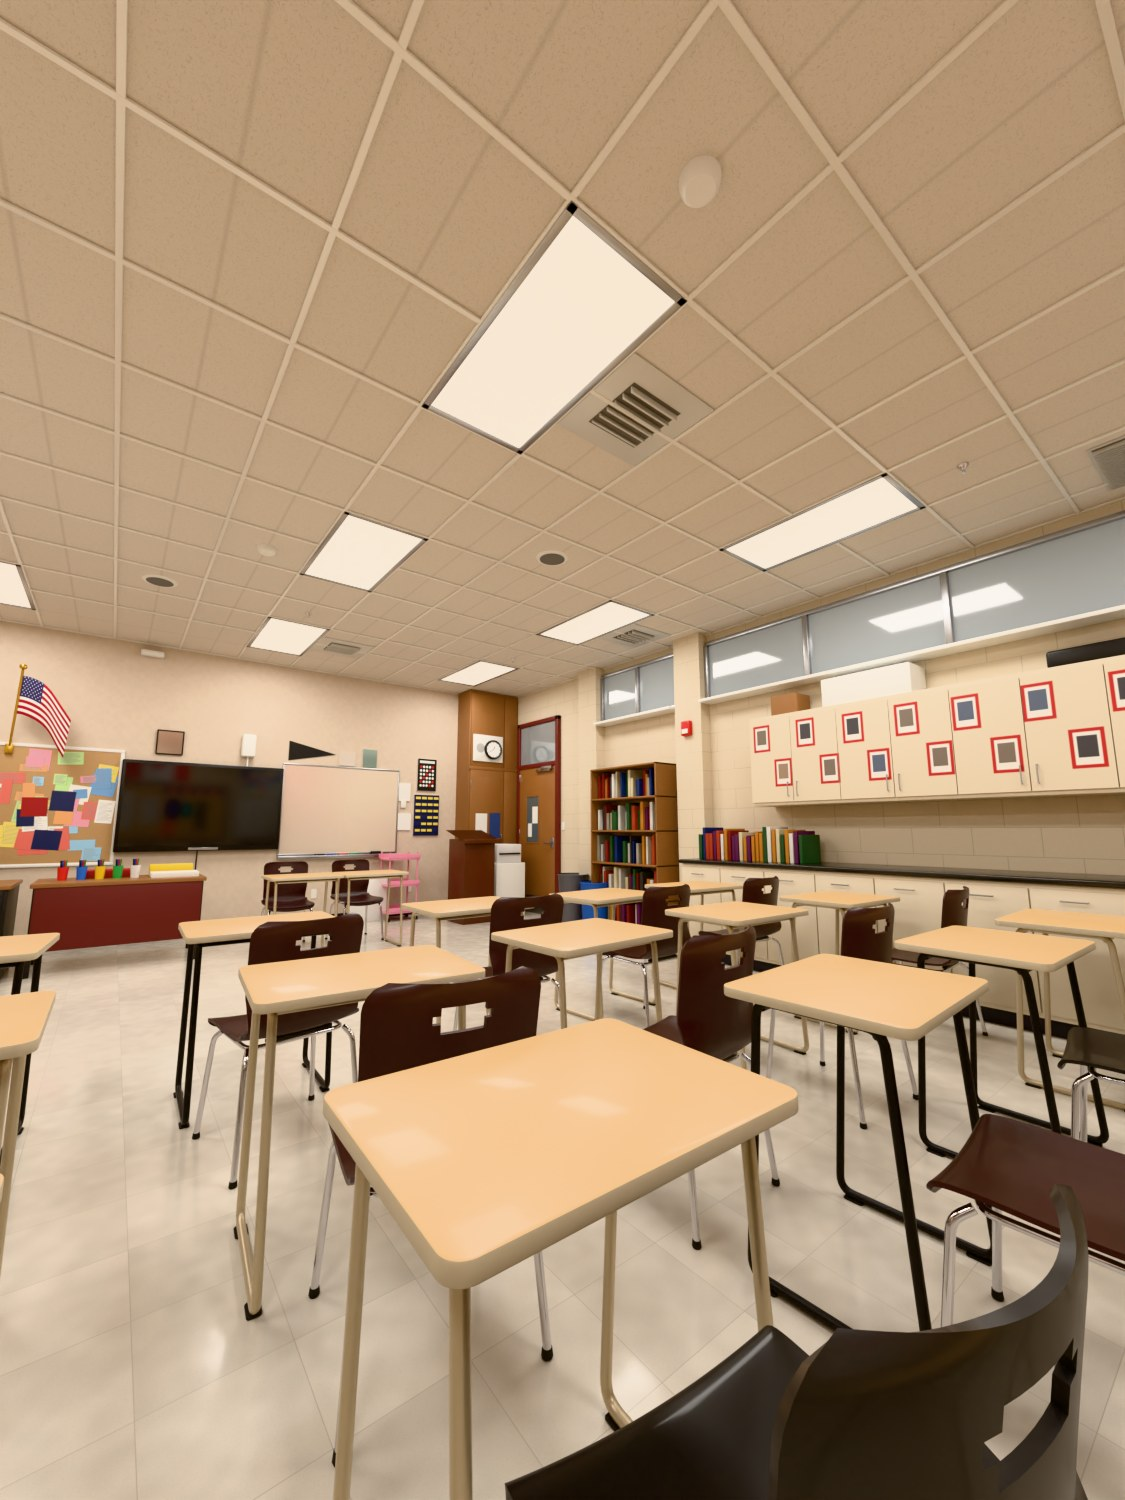
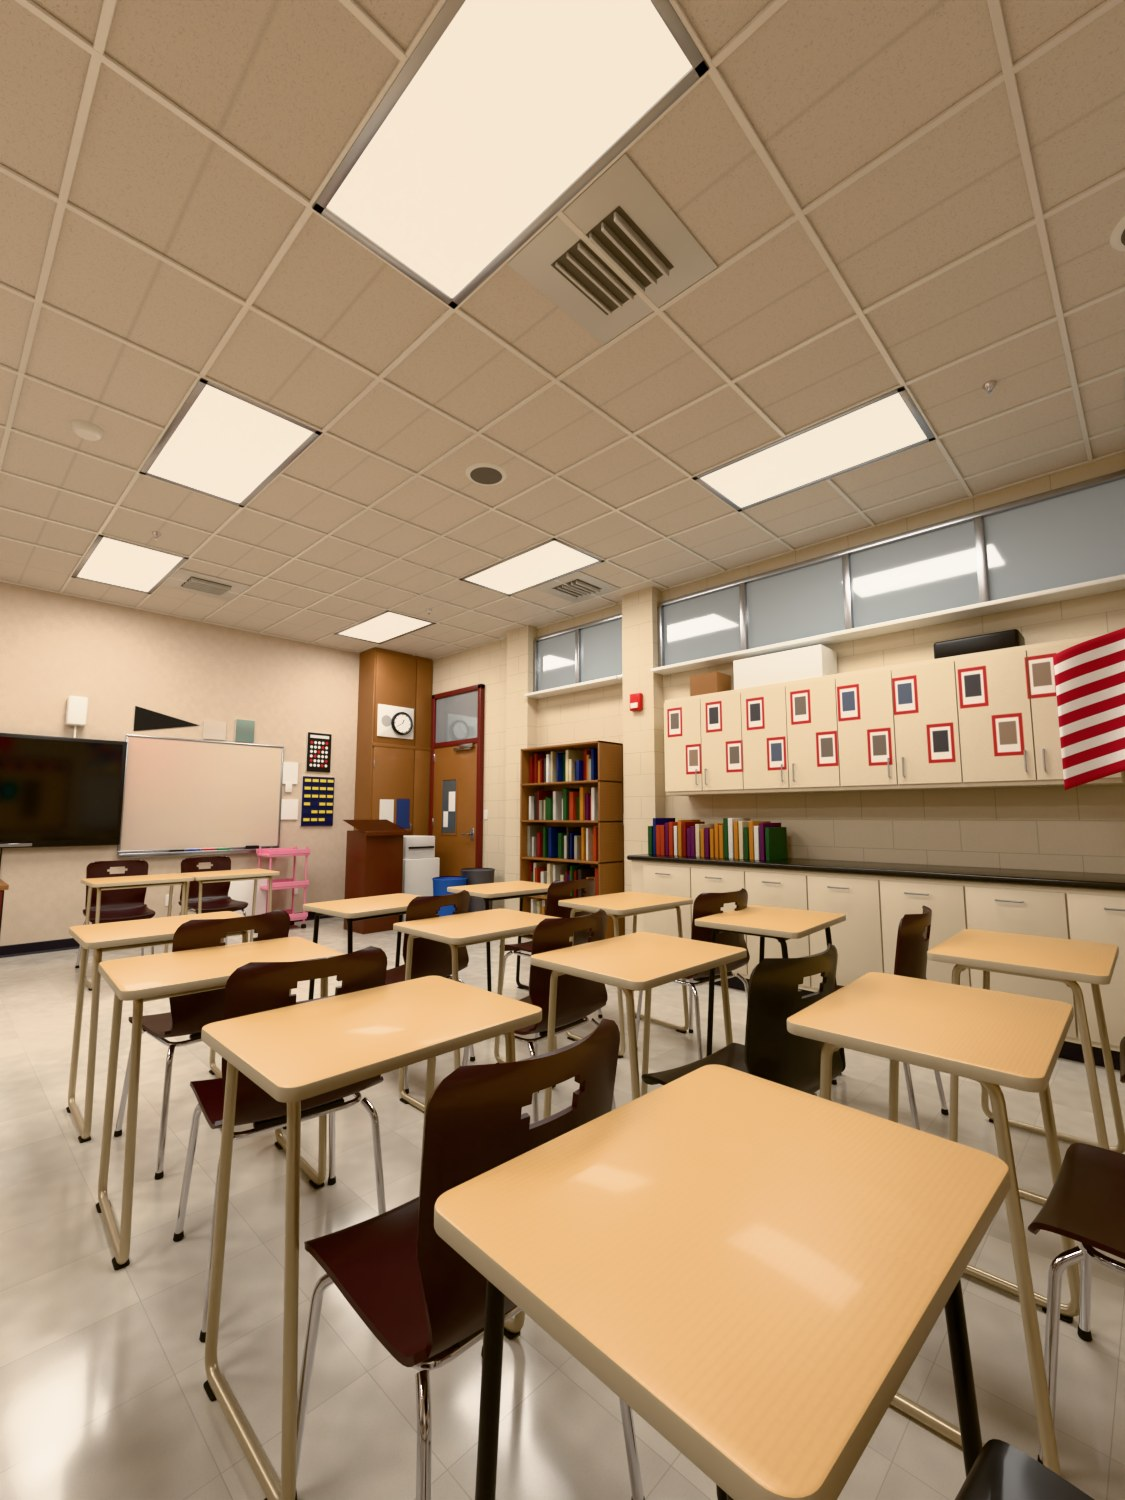
v4: R6 head-matched scale (6.5 studs/m), 28 ft depth, desks re-spaced from the photos

diff --git a/README.md b/README.md
@@ -6,13 +6,21 @@
 
 **Download:** [classroom_hd.zip](https://github.com/155xp/empty-classroom-model/releases/latest/download/classroom_hd.zip)
 
-About 325k triangles. The room is 7.32 x 9.75 m (24 x 32 ft) with a 3.35 m ceiling, re-measured from the photos: ceiling tiles were counted along the front wall, then the cameras and front-wall layout were solved together from two photos (about 3 px error). Desks, TV, whiteboard, oak cabinet, clock, door and the 3 x 4 grid of 2x4 lights sit where the photos put them. Posters and boards are generic stand-ins. `classroom_roblox.glb` is already in studs (1 m = 5 studs, so a seated R6 matches a seated student; room is about 36.6 x 48.8 x 16.8 studs) and split into 366 single-material parts under Roblox's 20k-triangle limit. Also includes the Blender source in meters.
+About 283k triangles. The room is 7.32 x 8.53 m (24 x 28 ft) with a 3.38 m ceiling, measured from the photos: ceiling tiles counted along the front wall, cameras and front-wall layout solved together from two photos (about 3 px error), and the desk grid (5 columns about 1.05 m apart, 4 rows about 0.95 m apart) located from where the students and their laptops sit. Posters and boards are generic stand-ins. `classroom_roblox.glb` is already in studs at **1 m = 6.5 studs**, so an R6 head is the size of the students' heads in the photos (room is about 47.6 x 55.4 x 22 studs). It is split into 329 single-material parts under Roblox's 20k-triangle limit. Also includes the Blender source in meters.
 
 ### Renders
 
-**Front wall from the back row (same angle as photo IMG_0074)**
+**Seated R6s at the desks, same angle as IMG_0079 (R6 heads match the students' heads)**
 
-![Front wall from the back row (same angle as photo IMG_0074)](renders/01_like_IMG0074.jpg)
+![Seated R6s at the desks, same angle as IMG_0079 (R6 heads match the students' heads)](renders/12_seated_R6s_like_IMG0079.jpg)
+
+**Seated R6s at the desks, same angle as IMG_0074**
+
+![Seated R6s at the desks, same angle as IMG_0074](renders/13_seated_R6s_like_IMG0074.jpg)
+
+**Front wall from the back row (same angle as IMG_0074)**
+
+![Front wall from the back row (same angle as IMG_0074)](renders/01_like_IMG0074.jpg)
 
 **Front wall, 1x lens from the back row (same angle as IMG_0079)**
 
@@ -42,9 +50,9 @@ About 325k triangles. The room is 7.32 x 9.75 m (24 x 32 ft) with a 3.35 m ceili
 
 ![Oak cabinet with the PA speaker and clock, door with transom](renders/08_clock_corner.jpg)
 
-**Desk and chair close-up (grey blocks are R6 dummies)**
+**Desk and chair close-up**
 
-![Desk and chair close-up (grey blocks are R6 dummies)](renders/09_desk_chair_detail.jpg)
+![Desk and chair close-up](renders/09_desk_chair_detail.jpg)
 
 **R6 scale check (grey blocks are R6 dummies)**
 
